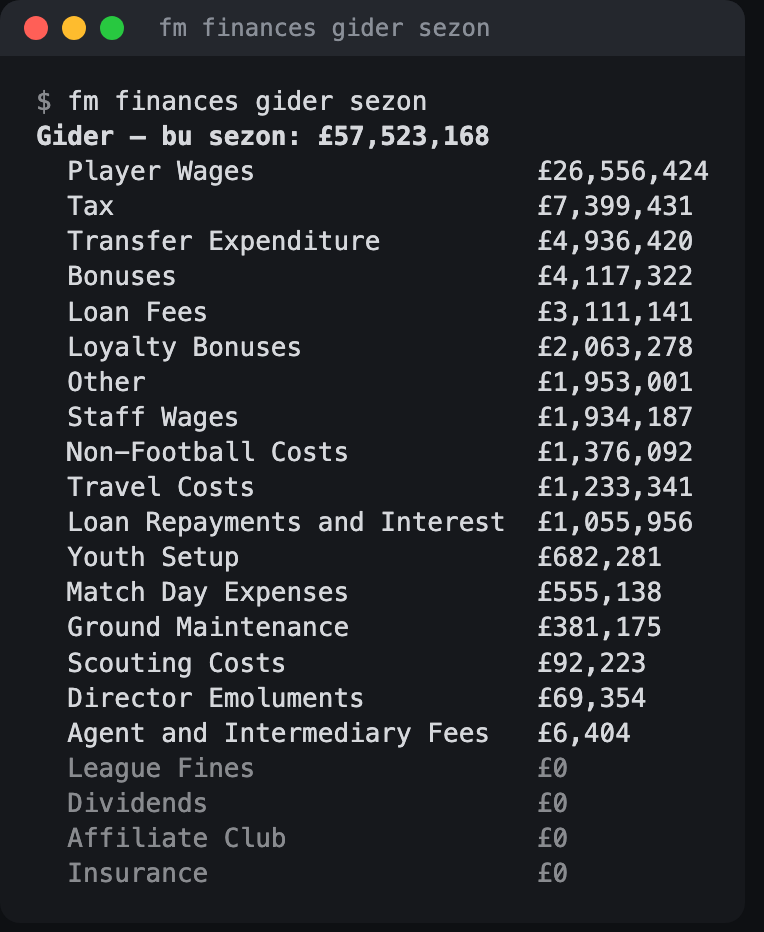
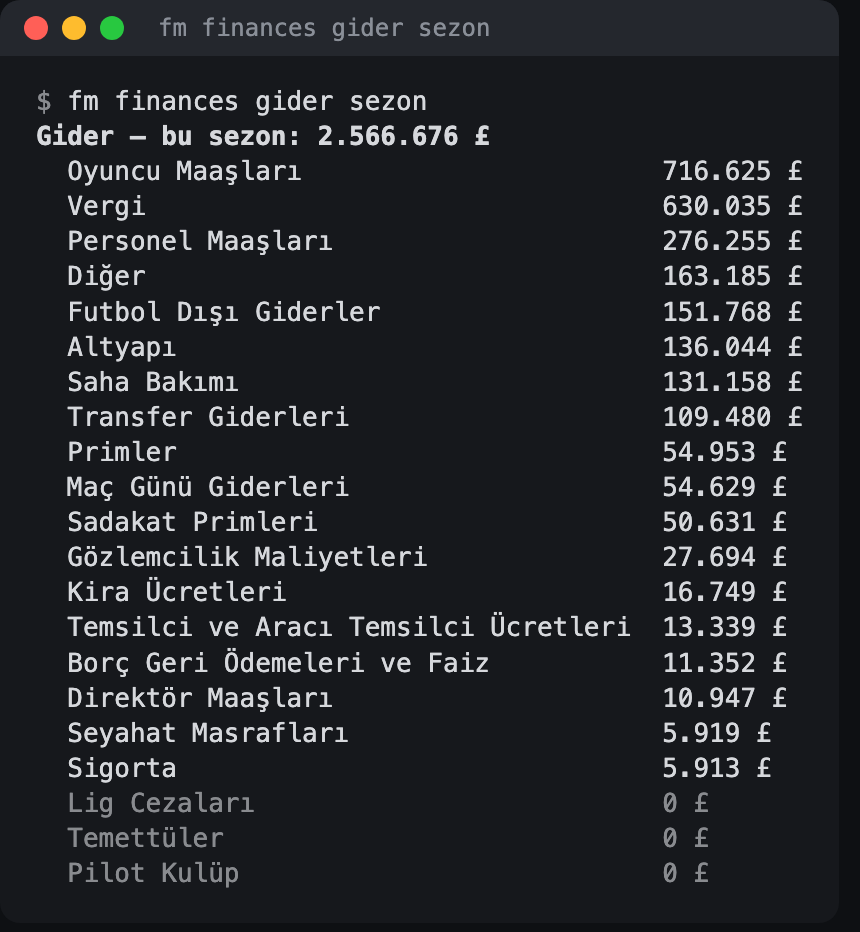
fix: finances reads the club's data instead of the card
The breakdown never worked in a Turkish game (the item column heading reads back as
'Clause', not 'Item'), skipped rows while scrolling, and failed every other run when a
breakdown card was left open. Every figure on the finances card is bound to Human.Club
properties, so the card, its tabs, scrolling and every fixed wait and text anchor are
gone. The plugin's texts route gains ?within=<element name>.

diff --git a/cli/fm/Finances.cs b/cli/fm/Finances.cs
@@ -10,36 +10,9 @@ namespace FmCli;
 /// </summary>
 internal static partial class Program
 {
-	private static readonly Dictionary<string, string> PlayerStatusTurkish = new()
-	{
-		["Star Player"] = L("Yıldız"), ["Important Player"] = L("Önemli"), ["Regular Starter"] = L("Düzenli ilk 11"),
-		["Squad Player"] = L("Rotasyon"), ["Impact Sub"] = L("Etkili yedek"), ["Fringe Player"] = L("Kenarda"),
-		["Emergency Backup"] = L("Acil durum yedeği"), ["Youngster"] = L("Genç"), ["Not Needed"] = L("İhtiyaç yok"),
-		["Backup"] = L("Yedek"), ["Breakthrough Prospect"] = L("Çıkış yapan genç"), ["Future Prospect"] = L("Geleceğin oyuncusu"),
-	};
-
 	private static async Task<int> Finances(bool json, string[] args)
 	{
 		if (await NotNow() is { } refused) return refused;
-		var opened = await OpenPage(Screen.ClubHome);
-		if (opened.StartsWith("error", StringComparison.Ordinal)) return Report(opened);
-
-		var clicked = "";
-		await Until(async () => !(clicked = await Fm.Get("click", ("text", "Overall Balance"), ("name", "layout-tile-interaction-button"))).StartsWith("error", StringComparison.Ordinal), seconds: 8, every: 0.5);
-		if (clicked.StartsWith("error", StringComparison.Ordinal)) return Report(clicked);
-
-		List<string> t = [];
-		await Until(async () =>
-		{
-			t = (await Fm.GetJson("texts", ("anchor", "Remaining Debt"), ("up", "16"))).EnumerateArray().Select(x => x.GetString() ?? "").ToList();
-			return t.Contains("Projections") && t.Contains("Total Sponsorships income");
-		}, seconds: 10, every: 0.5);
-		if (!t.Contains("Projections"))
-		{
-			Console.Error.WriteLine(L("Finans kartı okunamadı."));
-			return 1;
-		}
-
 		var words = Words(args).ToList();
 		if (words.Count > 0)
 		{
@@ -52,32 +25,44 @@ internal static partial class Program
 			return await FinanceBreakdown(json, kind, string.Join(" ", words.Skip(1)));
 		}
 
-		string After(string label, int skip = 1, int from = 0) =>
-			t.IndexOf(label, from) is var i && i >= 0 && i + skip < t.Count ? t[i + skip] : "-";
-		string Before(string label) => t.IndexOf(label) is var i && i > 0 ? t[i - 1] : "-";
+		// Everything is read from the club's data, with no screen opened (FINDINGS §8.183): the finances
+		// card's tiles are bound to these same properties.
+		var club = await Fm.Pull("Human.Club", "OverallBalance,TotalIncomeThisMonth,TotalExpenditureThisMonth,TotalDebt,OriginalLoanDebt,"
+			+ "TotalSponsorshipIncomeThisSeason,FfpData.IsPassingFfp,FfpData.Competition.Name");
+		if (Field(club, "OverallBalance") is not { Length: > 0 })
+		{
+			Console.Error.WriteLine(L("Finans kartı okunamadı."));
+			return 1;
+		}
 
-		// "count | status | wage" per player status, after the wage tile's caption.
-		var statuses = new List<(string Status, int Players, string Wage)>();
-		for (var i = Math.Max(0, t.IndexOf("Player types and their total basic wage:")); i + 2 < t.Count && t[i] != "Sponsorship"; i++)
-			if (int.TryParse(t[i], out var n) && PlayerStatusTurkish.ContainsKey(t[i + 1]))
-			{
-				statuses.Add((t[i + 1], n, t[i + 2]));
-				i += 2;
-			}
+		// Count and total basic wage per player status, in the period the game is set to show; the
+		// last entry is the whole squad's, its count the others' sum.
+		var types = (await Fm.Pull("Human.Club.WagesData.PlayerTypeWageData", "Name,Quantity,TotalBasicWage", list: true)).EnumerateArray()
+			.Select(r => (Status: Field(r, "Name"), Players: int.TryParse(Field(r, "Quantity"), out var n) ? n : 0, Wage: Field(r, "TotalBasicWage")))
+			.ToList();
+		var statuses = types.Count > 1 && types[^1].Players == types.SkipLast(1).Sum(t => t.Players) ? types.SkipLast(1).ToList() : types;
 
+		// The two seasons the card projects (the first is the one under way).
 		var projections = new List<(string Season, string Balance, string Turnover)>();
-		for (var i = t.IndexOf("Projections"); i >= 0 && (i = t.IndexOf("Season", i + 1)) >= 0 && i + 5 < t.Count && t[i + 2] == "Balance";)
-			projections.Add((t[i + 1], t[i + 3], t[i + 5]));
+		foreach (var end in new[] { "Two", "Three" })
+		{
+			var balance = await Fm.Pull($"Human.Club.ProjectionBalance.ProjectionEndOfSeason{end}", "ThisSeason,PropertyValue");
+			var turnover = await Fm.Pull($"Human.Club.ProjectionTurnover.ProjectionEndOfSeason{end}", "PropertyValue");
+			if (Field(balance, "ThisSeason") is { Length: > 0 } season)
+				projections.Add((season, PoundsShort(Field(balance, "PropertyValue")), PoundsShort(Field(turnover, "PropertyValue"))));
+		}
 
-		var months = new List<(string Month, string Balance)>();
-		var summary = t.IndexOf("Month");
-		for (var i = summary + 2; summary >= 0 && i + 1 < t.Count && Regex.IsMatch(t[i], @"^\d+/\d+/\d{4}$"); i += 2)
-			months.Add((t[i], t[i + 1]));
+		// The balance at the start of each month, the latest three.
+		var months = (await Fm.Pull("Human.Club.FinanceBalanceHistory", "GraphPointX,GraphPointY", list: true)).EnumerateArray()
+			.Select(r => (Day: DateTime.TryParse(Field(r, "GraphPointX"), System.Globalization.CultureInfo.InvariantCulture, System.Globalization.DateTimeStyles.None, out var d) ? d : (DateTime?)null, Balance: Field(r, "GraphPointY")))
+			.Where(r => r.Day != null).OrderBy(r => r.Day).TakeLast(3)
+			.Select(r => (Month: $"{Months[r.Day.Value.Month - 1]} {r.Day.Value.Year}", Balance: Pounds(r.Balance))).ToList();
 
-		// Spending is shown under "Expenditure" further down than income, so it is looked for after it.
-		var income = After("Income");
-		var spent = After("Expenditure");
-		(string Competition, string Status) ffp = t.IndexOf("FFP") is var f && f >= 0 && f + 2 < t.Count ? (t[f + 1], t[f + 2]) : ("-", "-");
+		var income = PoundsShort(Field(club, "TotalIncomeThisMonth"));
+		var spent = PoundsShort(Field(club, "TotalExpenditureThisMonth"));
+		var passing = Field(club, "FfpData.IsPassingFfp");
+		(string Competition, string Status) ffp = (Field(club, "FfpData.Competition.Name") is { Length: > 0 } c ? c : "-",
+			passing == "True" ? "Compliant" : passing == "False" ? "Failing" : "-");
 
 		var wages = await WageBill();
 		var sponsors = await Sponsors();
@@ -86,15 +71,15 @@ internal static partial class Program
 
 		var finances = new
 		{
-			Balance = Before("Overall Balance"),
+			Balance = Pounds(Field(club, "OverallBalance")),
 			IncomeThisMonth = income, ExpenditureThisMonth = spent,
 			Ffp = new { ffp.Competition, ffp.Status },
-			Debt = new { Remaining = Before("Remaining Debt"), Original = Before("Original Debt") },
+			Debt = new { Remaining = Pounds(Field(club, "TotalDebt")), Original = Pounds(Field(club, "OriginalLoanDebt")) },
 			Wages = new { wages.Total, wages.Budget, wages.Share },
 			WagesByStatus = statuses.Select(s => new { s.Status, s.Players, s.Wage }),
 			Sponsorship = new
 			{
-				Total = After("Total Sponsorships income"), Sources = After("Sources"),
+				Total = Pounds(Field(club, "TotalSponsorshipIncomeThisSeason")), Sources = sponsors.Count.ToString(),
 				Deals = sponsors.Select(d => new { Type = d[0], PerSeason = d[1], Until = d[2], Duration = d[3], TotalValue = d[4] }),
 			},
 			Tickets = new { Match = Pounds(Field(tickets, "MatchTicketPrice")), Season = Pounds(Field(tickets, "SeasonTicketPrice")), Holders = Field(tickets, "SeasonTicketHolders") },
@@ -115,8 +100,8 @@ internal static partial class Program
 		// The game writes a loss in brackets: "(£34.96M)".
 		void Row(string label, string value)
 		{
-			if (Ui.Rich) Ui.Line($"  {Ui.Safe(label),-22} {(value.StartsWith('(') ? $"[red]{Ui.Safe(value)}[/]" : Ui.Safe(value))}");
-			else Console.WriteLine($"  {label,-22} {value}");
+			if (Ui.Rich) Ui.Line($"  {Ui.Safe(label),-26} {(value.StartsWith('(') ? $"[red]{Ui.Safe(value)}[/]" : Ui.Safe(value))}");
+			else Console.WriteLine($"  {label,-26} {value}");
 		}
 
 		Heading("Kasa");
@@ -125,13 +110,13 @@ internal static partial class Program
 		Row(L("Bu ay gider"), spent);
 		foreach (var (month, balance) in months) Row(L($"{month} bakiyesi"), balance);
 		Row(L("Borç"), L($"{finances.Debt.Remaining} kaldı (başta {finances.Debt.Original})"));
-		Row(L("Finansal fair play"), $"{(ffp.Status == "Compliant" ? L("uyumlu") : ffp.Status)} ({ffp.Competition})");
+		Row(L("Finansal fair play"), $"{(ffp.Status switch { "Compliant" => L("uyumlu"), "Failing" => L("uyumsuz"), _ => ffp.Status })} ({ffp.Competition})");
 
 		Heading(L("Maaş bordrosu"));
 		Row(L("Haftalık toplam"), $"{finances.Wages.Total} / {finances.Wages.Budget} ({finances.Wages.Share})");
 		foreach (var (status, players, wage) in statuses.Where(s => s.Players > 0))
 			// The card writes these in the period the game is set to show (a week, a month, a year).
-			Row($"{status} ({players})", wage);
+			Row($"{GameWords.Of(status)} ({players})", wage);
 
 		Heading(L("Bilet"));
 		Row(L("Maç bileti"), finances.Tickets.Match);
@@ -141,14 +126,13 @@ internal static partial class Program
 		Row(L("Toplam gelir"), L($"{finances.Sponsorship.Total} ({finances.Sponsorship.Sources} kaynak)"));
 		foreach (var d in sponsors)
 		{
-			var type = Regex.IsMatch(d[0], @"additional club partner") ? L("Diğer ortaklar") : d[0];
-			var term = d[2] == "-" ? "" : L($" · bitiş {d[2]} ({Regex.Replace(d[3], @"Years?", L("yıl"))})");
-			Row(Ui.Fit(type, 22), L($"{d[1]} sezonluk{term}"));
+			var term = d[2] is "" or "-" ? "" : L($" · bitiş {d[2]} ({d[3]})");
+			Row(Ui.Fit(GameWords.Of(d[0]), 26), L($"{d[1]} sezonluk{term}"));
 		}
 
 		Heading(L("Yönetimin projeksiyonu"));
 		foreach (var (season, balance, turnover) in projections) Row(season, L($"bakiye {balance} · ciro {turnover}"));
-		if (Ui.Rich) Ui.Line(L("\n[dim]Kalem kalem: finances gelir|gider [ay|geçen ay|sezon|geçen sezon][/]"));
+		if (Ui.Rich) Ui.Line($"[dim]{Ui.Safe(L("\nKalem kalem: finances gelir|gider [ay|geçen ay|sezon|geçen sezon]"))}[/]");
 		else Console.WriteLine(L("\nKalem kalem: finances gelir|gider [ay|geçen ay|sezon|geçen sezon]"));
 		return 0;
 	}
@@ -166,107 +150,74 @@ internal static partial class Program
 			ok && budgeted && budget > 0 ? GameNumbers.Percent((spent / budget * 100).ToString("0.0")) : "-");
 	}
 
+	private static string PoundsShort(string raw) =>
+		double.TryParse(raw, System.Globalization.NumberStyles.Float, System.Globalization.CultureInfo.InvariantCulture, out var v)
+			? MoneyFormat.Short((long)Math.Round(v)) : "-";
+
 	private static string Pounds(string raw) =>
 		double.TryParse(raw, System.Globalization.NumberStyles.Float, System.Globalization.CultureInfo.InvariantCulture, out var v)
 			? MoneyFormat.Exact((long)Math.Round(v)) : "-";
 
 	/// <summary>
-	/// The sponsorship card, opened from the finances card's sponsorship tile: type, value per season,
-	/// until, duration, total value. The finances card is left up behind it.
+	/// Each sponsorship deal from the club's data (FinanceSponsorshipRowReference): type, value per
+	/// season, until, duration, total value.
 	/// </summary>
-	private static async Task<List<string[]>> Sponsors()
-	{
-		var deals = new List<string[]>();
-		if ((await Fm.Get("click", ("text", "Total Sponsorships income"), ("name", "layout-tile-interaction-button"))).StartsWith("error", StringComparison.Ordinal)) return deals;
-		List<string> t = [];
-		await Until(async () =>
-		{
-			t = (await Fm.GetJson("texts", ("anchor", "Value (Per Season)"), ("up", "14"))).EnumerateArray().Select(x => x.GetString() ?? "").ToList();
-			return t.Contains("Total Value") && t.Count > t.IndexOf("Total Value") + 5;
-		}, seconds: 8, every: 0.5);
-		for (var i = t.IndexOf("Total Value") + 1; i > 0 && i + 4 < t.Count; i += 5) deals.Add(t.GetRange(i, 5).ToArray());
-		return deals;
-	}
+	private static async Task<List<string[]>> Sponsors() =>
+		(await Fm.Pull("Human.Club.SponsorshipsData", "Name,SponsorshipValuePerSeason,DateString,Duration,PropertyValue", list: true)).EnumerateArray()
+			.Select(r => new[] { Field(r, "Name"), Field(r, "SponsorshipValuePerSeason"), Field(r, "DateString"), Field(r, "Duration"), Pounds(Field(r, "PropertyValue")) })
+			.Where(d => d[0].Length > 0).ToList();
 
 	/// <summary>
-	/// Income or expenditure item by item (FINDINGS §8.79): the finances card's turnover tile opens the
-	/// income breakdown and its "This Month" expenditure tile the spending one; four period tabs
-	/// (ThisMonthTab…LastSeasonTab) and an item list that lays out only the rows in view.
+	/// Income or expenditure item by item, from the club's data with no screen opened (FINDINGS §8.183):
+	/// Human.Club.{Income|Expenditure}Breakdown{ThisMonth|LastMonth|ThisSeason|LastSeason} lists each item
+	/// (Name, PropertyValue in pounds), Total{Income|Expenditure}{period} the total and
+	/// TotalIncome{period}Turnover the turnover. The finances card shows the same lists.
 	/// </summary>
 	private static async Task<int> FinanceBreakdown(bool json, string kind, string period)
 	{
-		var (tab, label) = Fold(period) switch
+		var (when, label) = Fold(period) switch
 		{
-			"" or "ay" or "bu ay" or "month" => ("This Month", "bu ay"),
-			"gecen ay" or "last month" => ("Last Month", L("geçen ay")),
-			"sezon" or "bu sezon" or "season" => ("This Season", L("bu sezon")),
-			"gecen sezon" or "last season" => ("Last Season", L("geçen sezon")),
+			"" or "ay" or "bu ay" or "month" => ("ThisMonth", "bu ay"),
+			"gecen ay" or "last month" => ("LastMonth", L("geçen ay")),
+			"sezon" or "bu sezon" or "season" => ("ThisSeason", L("bu sezon")),
+			"gecen sezon" or "last season" => ("LastSeason", L("geçen sezon")),
 			_ => (null, null),
 		};
-		if (tab == null)
+		if (when == null)
 		{
 			Console.Error.WriteLine(L($"'{period}' bir dönem değil: ay, geçen ay, sezon, geçen sezon"));
 			return 1;
 		}
 
-		var tile = kind == "Income" ? "Turnover" : "This Month";
-		var clicked = await Fm.Get("click", ("text", tile), ("name", "layout-tile-interaction-button"));
-		if (clicked.StartsWith("error", StringComparison.Ordinal)) return Report(clicked);
-
-		var heading = $"{kind} Breakdown";
-		async Task<List<string>> Card() => (await Fm.GetJson("texts", ("anchor", heading), ("up", "6"))).EnumerateArray().Select(x => x.GetString() ?? "").ToList();
-		static string TotalOf(List<string> c) => c.IndexOf("Total") is var i && i >= 0 && i + 1 < c.Count ? c[i + 1] : null;
-		static List<(string Item, string Amount)> Items(List<string> c)
+		var rows = (await Fm.Pull($"Human.Club.{kind}Breakdown{when}", "Name,PropertyValue", list: true)).EnumerateArray()
+			.Select(r => (Item: Field(r, "Name"), Value: Field(r, "PropertyValue")))
+			.Where(r => !string.IsNullOrEmpty(r.Item)).ToList();
+		var totals = await Fm.Pull("Human.Club", kind == "Income" ? $"TotalIncome{when},TotalIncome{when}Turnover" : $"TotalExpenditure{when}");
+		if (rows.Count == 0 || Field(totals, $"Total{kind}{when}") is not { Length: > 0 } rawTotal)
 		{
-			var items = new List<(string, string)>();
-			for (var i = c.IndexOf("Item") + 2; i > 1 && i + 1 < c.Count; i += 2) items.Add((c[i], c[i + 1]));
-			return items;
-		}
-
-		List<string> card = [];
-		await Until(async () => Items(card = await Card()).Count > 0, seconds: 8, every: 0.5);
-		if (Items(card).Count == 0)
-		{
-			Console.Error.WriteLine(kind == "Income" ? L("Gelir dökümü açılmadı.") : L("Gider dökümü açılmadı."));
+			Console.Error.WriteLine(kind == "Income" ? L("Gelir dökümü okunamadı.") : L("Gider dökümü okunamadı."));
 			return 1;
 		}
-		// The card comes back on whichever period it was last left on, so the tab is always pressed.
-		// The figures follow it a moment later; the card may already be on it, or two periods may add
-		// up the same, so a total that does not move is only waited on briefly.
-		var before = TotalOf(card);
-		await Fm.Get("click", ("text", tab), ("name", tab.Replace(" ", "") + "Tab"));
-		await Until(async () => TotalOf(card = await Card()) != before, seconds: 1.5, every: 0.3);
-
-		// The list is read top to bottom; any item in view anchors the scroll.
-		var all = new List<(string Item, string Amount)>();
-		foreach (var at in new[] { "0", "0.5", "1" })
-		{
-			var shown = Items(await Card());
-			if (shown.Count == 0) break;
-			await Fm.Get("scroll", ("anchor", shown[0].Item), ("to", at));
-			await Task.Delay(400);
-			foreach (var item in Items(card = await Card()))
-				if (!all.Any(a => a.Item == item.Item)) all.Add(item);
-		}
-		var total = TotalOf(card);
-		var turnover = card.IndexOf("Turnover") is var k && k >= 0 && k + 1 < card.Count ? card[k + 1] : null;
+		var total = Pounds(rawTotal);
+		var turnover = kind == "Income" ? Pounds(Field(totals, $"TotalIncome{when}Turnover")) : null;
+		var all = rows.Select(r => (r.Item, Amount: Pounds(r.Value), Sort: double.TryParse(r.Value, System.Globalization.NumberStyles.Float, System.Globalization.CultureInfo.InvariantCulture, out var v) ? v : 0)).ToList();
 
 		if (json)
 		{
-			Console.WriteLine(JsonOut.Of(new { Kind = kind, Period = tab, Total = total, Turnover = turnover, Items = all.Select(a => new { a.Item, a.Amount }) }));
+			Console.WriteLine(JsonOut.Of(new { Kind = kind, Period = when, Total = total, Turnover = turnover, Items = all.Select(a => new { a.Item, a.Amount }) }));
 			return 0;
 		}
 		var title = $"{(kind == "Income" ? L("Gelir") : L("Gider"))} — {label}: {total}" + (turnover != null && turnover != total ? L($" (ciro {turnover})") : "");
 		if (Ui.Rich) Ui.Line($"[bold]{Ui.Safe(title)}[/]");
 		else Console.WriteLine(title);
-		var width = all.Select(a => a.Item.Length).DefaultIfEmpty(10).Max();
-		foreach (var (item, amount) in all.OrderByDescending(a => Money(a.Amount)))
+		// Aligned on the names as shown, in the game's words.
+		var width = all.Select(a => GameWords.Of(a.Item).Length).DefaultIfEmpty(10).Max();
+		foreach (var (english, amount, sort) in all.OrderByDescending(a => a.Sort))
 		{
-			if (Ui.Rich && Money(amount) == 0) Ui.Line($"  [dim]{Ui.Safe(item.PadRight(width))}  {Ui.Safe(amount)}[/]");
+			var item = GameWords.Of(english);
+			if (Ui.Rich && sort == 0) Ui.Line($"  [dim]{Ui.Safe(item.PadRight(width))}  {Ui.Safe(amount)}[/]");
 			else Console.WriteLine($"  {item.PadRight(width)}  {amount}");
 		}
 		return 0;
-
-		static double Money(string text) => double.TryParse(Regex.Replace(text, @"[^\d.]", ""), System.Globalization.NumberStyles.Float, System.Globalization.CultureInfo.InvariantCulture, out var v) ? v : 0;
 	}
 }

diff --git a/plugin/FmCliProbe/src/Texts.cs b/plugin/FmCliProbe/src/Texts.cs
@@ -20,8 +20,11 @@ internal static class Texts
 		// ?anchorname= by the element's own name ("MessageBodyText"), for a text bound to nothing
 		// that tells it apart.
 		var anchorName = q["anchorname"];
-		if (string.IsNullOrEmpty(anchor) && string.IsNullOrEmpty(anchorPath) && string.IsNullOrEmpty(anchorName))
-			return "error: ?anchor=<text>, ?anchorpath=<data path> or ?anchorname=<element name> required";
+		// ?within= reads everything inside the first shown element of that name, of any kind (a tile's
+		// panel, "FinancesIncome"), with nothing to climb.
+		var within = q["within"];
+		if (string.IsNullOrEmpty(anchor) && string.IsNullOrEmpty(anchorPath) && string.IsNullOrEmpty(anchorName) && string.IsNullOrEmpty(within))
+			return "error: ?anchor=<text>, ?anchorpath=<data path>, ?anchorname=<element name> or ?within=<element name> required";
 		var up = int.TryParse(q["up"], out var n) ? n : 8;
 		// With ?paths=1 each text comes with the data path it is bound to, which says what it is
 		// whatever language it reads in ("Date", "Fixture.Opponent"…); empty when it is drawn another way.
@@ -36,6 +39,11 @@ internal static class Texts
 			try
 			{
 				if (element.panel == null || element.worldBound.width <= 0) continue;
+				if (!string.IsNullOrEmpty(within))
+				{
+					if (element.name != within || element.resolvedStyle.display == DisplayStyle.None) continue;
+					return "[" + string.Join(", ", Under(element, paths)) + "]\n";
+				}
 				var text = element.TryCast<TextElement>();
 				if (text == null) continue;
 				if (!string.IsNullOrEmpty(anchorName) ? element.name != anchorName

diff --git a/docs/FINDINGS.md b/docs/FINDINGS.md
@@ -1654,3 +1654,32 @@ sonraki okumada (ilk sorudan 0,4–0,9 sn sonra, araya bekleme koymadan) 26 alan
 "No" ya da "N/A" — hiçbiri `{}` kalmıyor. Yani `{}` yalnızca "henüz gelmedi". Sabit 300 ms kaldırıldı; `{}` dönen alan
 0,1 sn arayla 5 sn'ye kadar yeniden okunuyor. 27 oyuncu iki kez okundu (ilki çoğunda ilk okuma): iki çıktı aynı, 27/27 tam.
 İngilizcede denenmedi (işaret yazıdan bağımsız).
+
+### 8.183 Finans: kart değil kulübün verisi (14 Ekim, Türkçe)
+`finances` ekrandan yazıyla okunuyordu ("Overall Balance" kutusu, "Remaining Debt"ten 16 üst, "Item" başlığından sonrası,
+"Total"in yanı). Türkçede döküm hiç çalışmıyordu: sütun başlığı "Madde" eklentiden "Clause" diye dönüyor (§8.167'nin
+kopya çevirisi), "Item" bulunamıyor. Döküm kartı açık kalınca sonraki çalıştırma da düşüyordu (sayfa yeniden açılınca kart
+kapanıyor, "Genel Durum" kutusuna tıklama kapanan kartın altına gidiyordu; kartın varlığı `#Card` katmanının `#Body`'si
+dolu/boş diye görülür). Kartın her kutusu kulüp verisine bağlı; hepsi `/pull` ile, sayfa açmadan geliyor:
+- Bakiye `Human.Club.OverallBalance`; bu ay `TotalIncomeThisMonth`, `TotalExpenditureThisMonth`; borç `TotalDebt` /
+  `OriginalLoanDebt`; sponsor toplamı `TotalSponsorshipIncomeThisSeason`; FFP `FfpData.IsPassingFfp`,
+  `FfpData.Competition.Name` (`FFPDetailsReference`, 30 alan; `/schema?filter=FFPDetails`).
+- Döküm `{Income|Expenditure}Breakdown{ThisMonth|LastMonth|ThisSeason|LastSeason}` (liste; `Name`, `PropertyValue`
+  sterlin, `DisplayValue` kısaltılmış), toplam `Total{Income|Expenditure}{dönem}`, ciro `TotalIncome{dönem}Turnover`.
+  Gider 21, gelir 17 kalem; 6 bileşimde kalemlerin toplamı toplamı birebir tutuyor. Ekrandan okuma kaydırmada kalem
+  atlıyordu (geçen sezonun en büyük kalemi Oyuncu Maaşları 3,9M yoktu).
+- Maaş türleri `WagesData.PlayerTypeWageData` (`Name`, `Quantity`, `TotalBasicWage` oyunun gösterim döneminde); son satır
+  bütün kadro (sayısı ötekilerin toplamı). Sponsorlar `SponsorshipsData` (`Name`, `SponsorshipValuePerSeason`, `DateString`,
+  `Duration`, `PropertyValue` = toplam). Aylık bakiye `FinanceBalanceHistory` (`GraphPointX` ISO tarih, `GraphPointY`).
+  Projeksiyon `ProjectionBalance` / `ProjectionTurnover` `.ProjectionEndOfSeason{One|Two|Three}` (`ThisSeason`,
+  `PropertyValue`); kart Two ve Three'yi gösteriyor. `Title` oyunun dilinde ("2027/28 sezon sonu"), kullanılmıyor.
+- Listeler tembel bağlanıyor: ilk soru "is not a list", sonra alanları boş satırlar, sonra tam (`Fm.Pull` bunu bekliyor).
+
+Kaydırma ölçümü (artık kullanılmıyor, Happiness/Numbers/Matches/Staff'ın 400–500 ms'leri için): `/scroll` `to` verilmezse
+yalnızca konumu söyler ("0 of 586.2"); kaydırınca görünen satırlar tek adımda, ara durum olmadan yenileniyor (7 denemede
+50–130 ms). Doğru işaret: konum zaten hedefteyse bekleme yok, değilse görünen satırlar değişene kadar. Eklentiye
+`texts?within=<öğe adı>` eklendi (adlı bir panelin içindeki yazılar, `paths=1` ile). Kulüp sayfasındaki kutular
+`BindingRemapper #Finances`; kartın kutuları `#FinancesIncome`, `#FinancesExpenditure`, `#FinancesDebtsAndLoans`,
+`#FinancesFfp`, `#FinancesProjections`, `#FinancesSponsorshipsTile`; döküm kartında sekmeler `#ThisMonthTab`…, seçili olanın
+`#Selected`'ı dolu, toplam `#TotalExpenditure`.
+

diff --git a/docs/manual/KILAVUZ.md b/docs/manual/KILAVUZ.md
@@ -1654,8 +1654,8 @@ Sağlık 6 kişi — eksik: Head of Sports Science 0/1, Physio 1/5, Sports Scien
 
 ![fm finances](img/finances.png)
 
-Kasa ve aylara göre bakiyesi, bu ayın geliri ve gideri, kalan borç, finansal fair play durumu,
-haftalık maaş bordrosu (oyuncu statüsüne göre: yıldız, düzenli ilk 11, rotasyon…), maç bileti ve
+Kasa ve son üç ayın başındaki bakiye, bu ayın geliri ve gideri, kalan borç, finansal fair play durumu,
+haftalık maaş bordrosu (oyuncu statüsüne göre: yıldız, ilk 11, rotasyon… hepsi), maç bileti ve
 kombine fiyatı, sponsorluk
 anlaşmaları tek tek (tür, sezonluk değer, bitiş) ve yönetimin önümüzdeki sezonlar için bakiye/ciro tahmini. Zarar parantezle ve kırmızı yazılır.
 Transfer ve maaş bütçesi için `budget`.
@@ -1671,7 +1671,8 @@ Yönetimin projeksiyonu
 ```
 
 Kalem kalem gelir ya da gider: `finances gelir` / `finances gider`, dönemi arkasına yaz — `ay`
-(varsayılan), `geçen ay`, `sezon`, `geçen sezon`. Büyükten küçüğe sıralı; sıfır olan kalemler soluk.
+(varsayılan), `geçen ay`, `sezon`, `geçen sezon`. Bütün kalemler, büyükten küçüğe; sıfır olanlar soluk.
+Hepsi kulübün verisinden okunur, oyunda hiçbir sayfa açılmaz.
 
 ![fm finances gider sezon](img/finances-expenditure.png)
 
